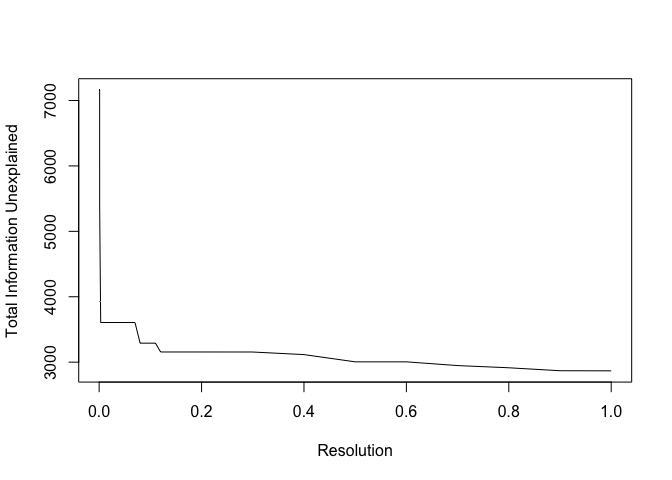
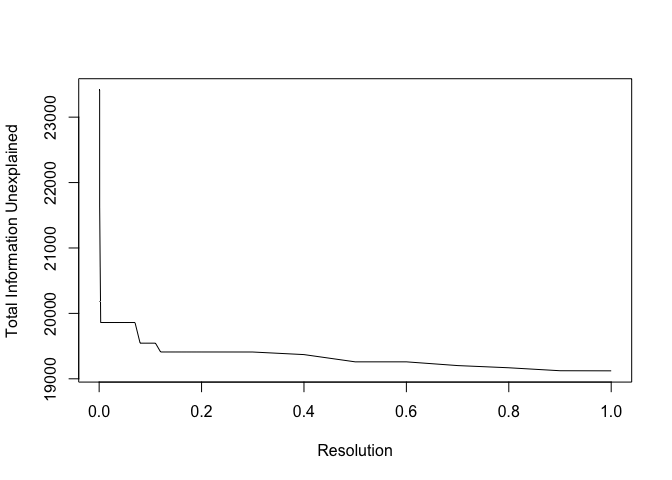
Update README to remove sparsity adjustment

Changed region(s): [[0.0625, 0.3125, 0.125, 0.8438], [0.0625, 0.1562, 0.125, 0.2812]]

diff --git a/README.md b/README.md
@@ -51,9 +51,9 @@ Homogeneity, adjusted for the difference in total count depths of cells,
 is simulated to provide a null baseline of information.
 
 ``` r
-Het <- getHet(CountsMatrix, subtractSparsity = T)
+Het <- getHet(CountsMatrix)
 
-nullHet <- simulateHom(CountsMatrix, subtractSparsity = T)
+nullHet <- simulateHom(CountsMatrix)
 
 HighlyInformative <- Het > nullHet + infoThreshold
 
@@ -85,13 +85,15 @@ expressed within each cluster is found.
 ``` r
 load("../Data/Tian2018/Identity")
 
-Clustered_Unexplained_Information <- getHetMicro(CountsMatrix, Identity, subtractSparsity = T)
+Clustered_Unexplained_Information <- getHetMicro(CountsMatrix, Identity)
 HetDataFrame <- cbind(HetDataFrame, Clustered_Unexplained_Information)
+
+HighlyInformativeDecomp <- Clustered_Unexplained_Information > nullHet + infoThreshold
 
 with(HetDataFrame, plot(log10_Mean_nUMI, 
                         Clustered_Unexplained_Information,
-                        col = ifelse(HighlyInformative, ColourSelected, ColourNotSelected),
-                        ylim = c(-log2(N/100), log2(N)),
+                        col = ifelse(HighlyInformativeDecomp, ColourSelected, ColourNotSelected),
+                        ylim = c(0, log2(N)),
                         pch = 20)
      )
 lines(HetDataFrame$log10_Mean_nUMI[Order], HetDataFrame$Null_Model[Order], col = "red", lwd = 2)
